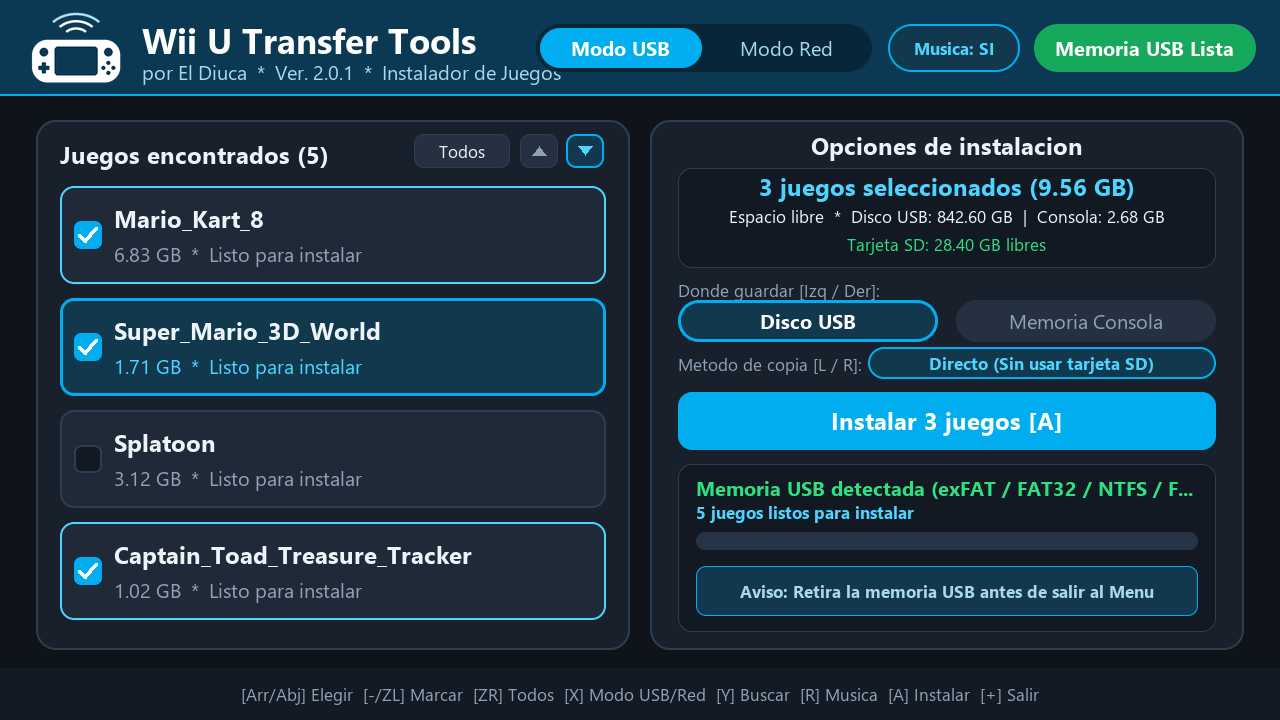
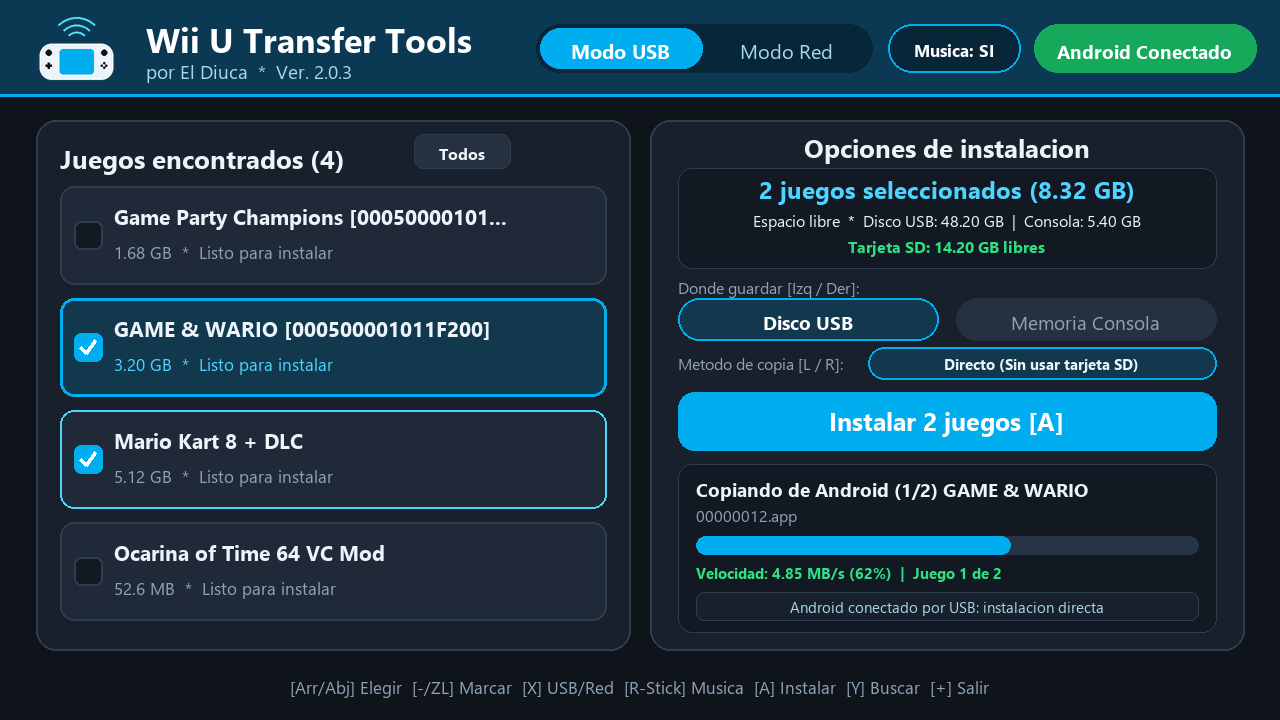
docs: actualizar README bilingue con insignias ES/EN e imagenes actuales

diff --git a/README.md b/README.md
@@ -1,7 +1,11 @@
 # Wii U Transfer Tools
 
 <p align="center">
-  <b>🇪🇸 Español</b> &nbsp;|&nbsp; <a href="README_EN.md">🇺🇸 English</a>
+  <a href="README.md"><img src="https://img.shields.io/badge/Idioma-Espa%C3%B1ol-00AEEF?style=for-the-badge" alt="Español"></a>
+  &nbsp;
+  <a href="README_EN.md"><img src="https://img.shields.io/badge/Language-English-1F2937?style=for-the-badge" alt="English"></a>
+  &nbsp;
+  <a href="https://github.com/supermafari007/WiiU-Transfer-Tools/releases/latest"><img src="https://img.shields.io/badge/Versi%C3%B3n-v2.0.4-17A95B?style=for-the-badge" alt="v2.0.4"></a>
 </p>
 
 <p align="center">
@@ -18,13 +22,13 @@ Este proyecto es **software de código abierto bajo la licencia MIT**. Consulta 
 
 ## Así se ve Wii U Transfer Tools
 
-| En la consola Wii U (`Modo USB` / `Modo Red`) | Programa para PC Windows |
+| En la consola Wii U (`Modo USB` / `Modo Red`) | Instalación desde Memoria USB (`exFAT`/`NTFS`/`FAT32`) |
 |:---:|:---:|
-| ![Wii U Transfer Tools en TV y GamePad](Imagenes/1_WiiU_Transfer_Tools_consola.png) | ![Programa de Wii U Transfer Tools para PC](Imagenes/2_WiiU_Transfer_Tools_PC.png) |
+| ![Wii U Transfer Tools en TV y GamePad](Imagenes/1_WiiU_Transfer_Tools_consola.png) | ![Wii U Transfer Tools Memoria USB](Imagenes/7_WiiU_Transfer_Tools_USB.png) |
 
-<p align="center">
-  <img src="Imagenes/6_WiiU_Transfer_Tools_Android_MTP.png" alt="Wii U Transfer Tools para Android 9+" width="820">
-</p>
+| Programa para PC Windows | App para Android 9+ (USB Directo AOA y Wi-Fi) |
+|:---:|:---:|
+| ![Programa de Wii U Transfer Tools para PC](Imagenes/2_WiiU_Transfer_Tools_PC.png) | ![Wii U Transfer Tools para Android 9+](Imagenes/6_WiiU_Transfer_Tools_Android_MTP.png) |
 
 ## Descargar la versión 2.0.4
 

diff --git a/README_EN.md b/README_EN.md
@@ -1,7 +1,11 @@
 # Wii U Transfer Tools
 
 <p align="center">
-  <a href="README.md">🇪🇸 Español</a> &nbsp;|&nbsp; <b>🇺🇸 English</b>
+  <a href="README.md"><img src="https://img.shields.io/badge/Idioma-Espa%C3%B1ol-1F2937?style=for-the-badge" alt="Español"></a>
+  &nbsp;
+  <a href="README_EN.md"><img src="https://img.shields.io/badge/Language-English-00AEEF?style=for-the-badge" alt="English"></a>
+  &nbsp;
+  <a href="https://github.com/supermafari007/WiiU-Transfer-Tools/releases/latest"><img src="https://img.shields.io/badge/Version-v2.0.4-17A95B?style=for-the-badge" alt="v2.0.4"></a>
 </p>
 
 <p align="center">
@@ -18,13 +22,13 @@ This project is **open-source software licensed under the MIT License**. See [LI
 
 ## Preview
 
-| Wii U Console (`USB Mode` / `Net Mode`) | Windows PC App |
+| Wii U Console (`USB Mode` / `Net Mode`) | USB Drive Mode (`exFAT`/`NTFS`/`FAT32`) |
 |:---:|:---:|
-| ![Wii U Transfer Tools on TV and GamePad](Imagenes/1_WiiU_Transfer_Tools_consola.png) | ![Wii U Transfer Tools PC App](Imagenes/2_WiiU_Transfer_Tools_PC.png) |
+| ![Wii U Transfer Tools on TV and GamePad](Imagenes/1_WiiU_Transfer_Tools_consola.png) | ![Wii U Transfer Tools USB Drive](Imagenes/7_WiiU_Transfer_Tools_USB.png) |
 
-<p align="center">
-  <img src="Imagenes/6_WiiU_Transfer_Tools_Android_MTP.png" alt="Wii U Transfer Tools for Android 9+" width="820">
-</p>
+| Windows PC App | Android 9+ App (Direct USB AOA & Wi-Fi) |
+|:---:|:---:|
+| ![Wii U Transfer Tools PC App](Imagenes/2_WiiU_Transfer_Tools_PC.png) | ![Wii U Transfer Tools for Android 9+](Imagenes/6_WiiU_Transfer_Tools_Android_MTP.png) |
 
 ## Download Version 2.0.4
 
